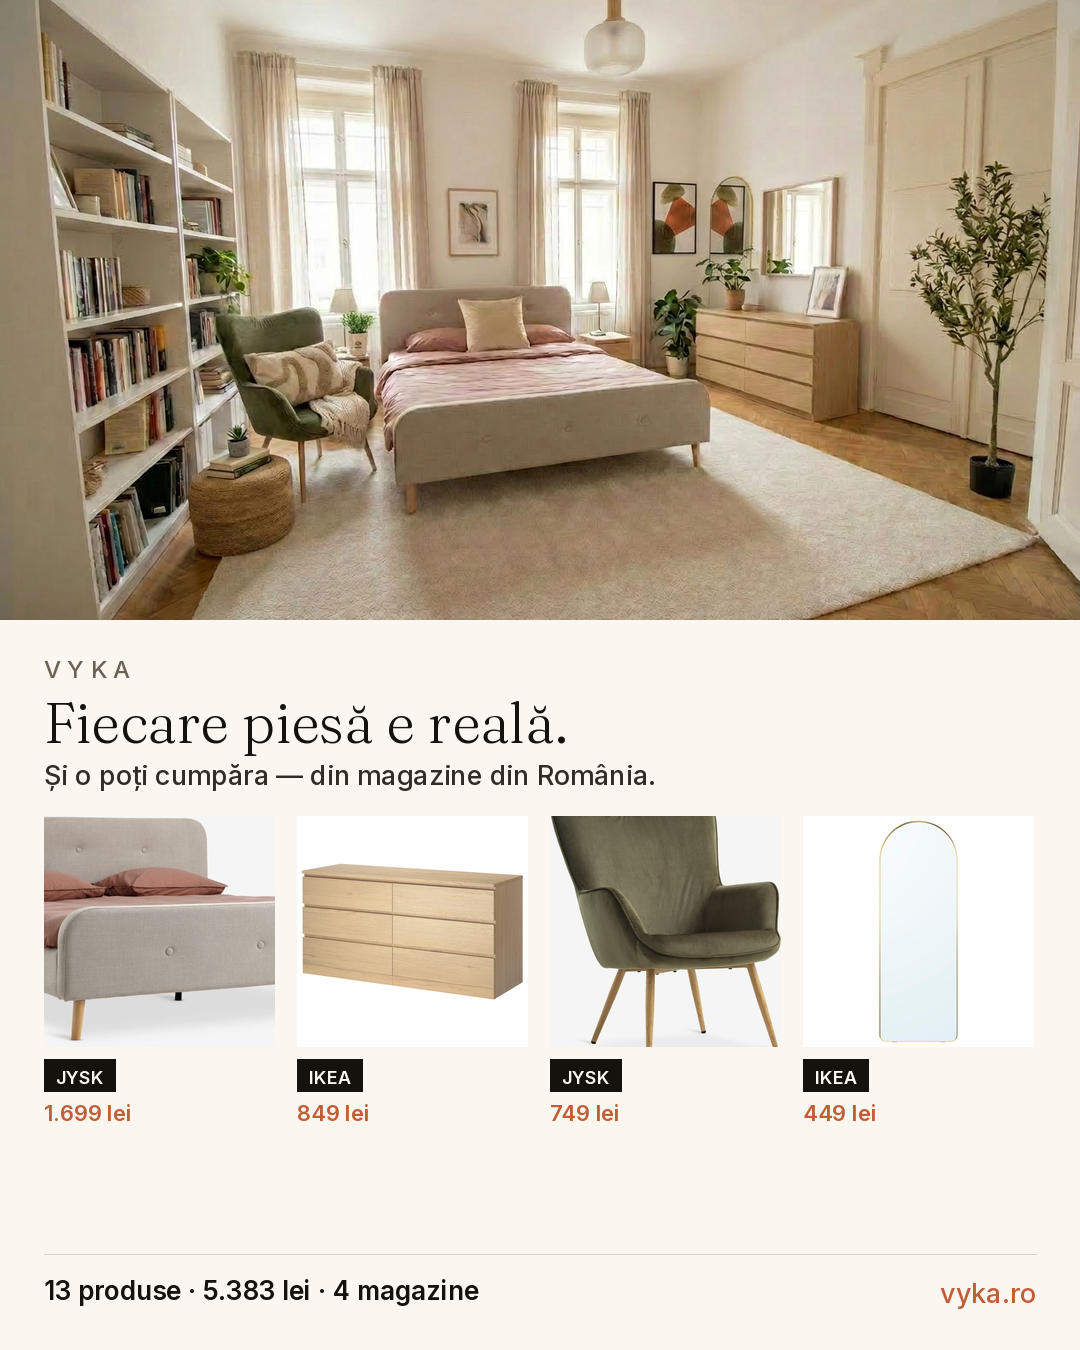
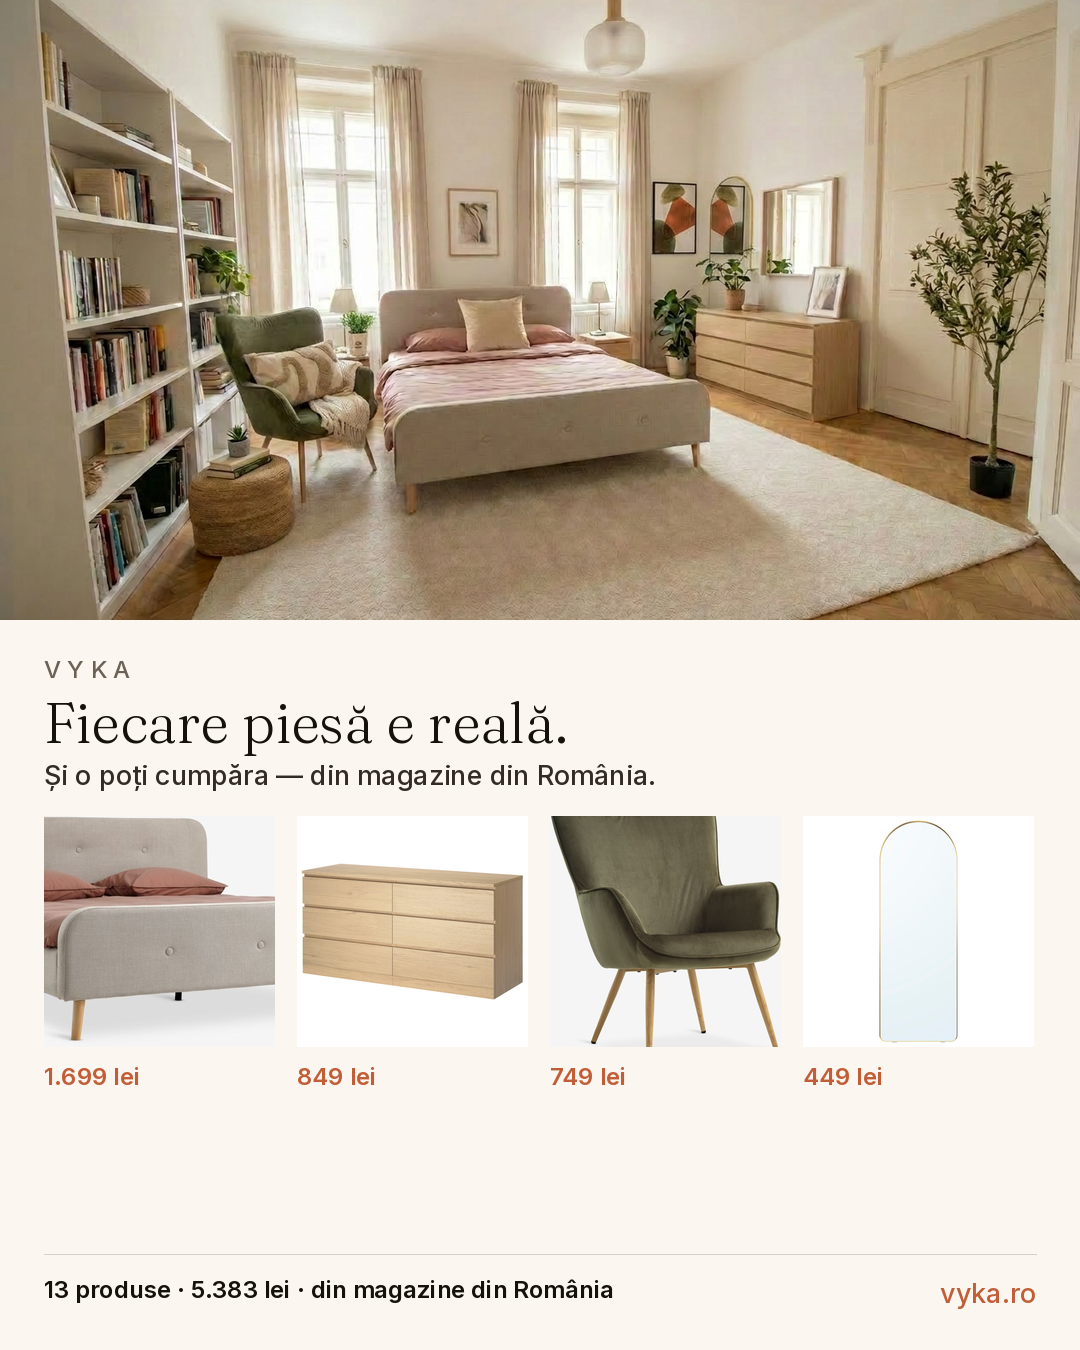
Marketing: drop store brand names, use 'magazine disponibile în România'
Avoids implying partnership/endorsement with named retailers. Removes
per-product store badges + the store-names line from shoppable cards, updates
the VO line and caption. (App's real shopping list still shows stores.)

diff --git a/make_shop_vertical.py b/make_shop_vertical.py
@@ -45,14 +45,13 @@ for i, p in enumerate(feat):
     except Exception:
         th = Image.new("RGB", (cw, cw), B.CREAM_100)
     card.paste(th, (x, chip_top))
-    ty = chip_top + cw + 14
-    B.store_badge(d, (x, ty), p["store"], size=18)
-    d.text((x, ty + 42), lei(p["price_minor"]), font=B.font("bold", 24), fill=B.ACCENT)
-fy = chip_top + cw + 14 + 88
+    # no store name on marketing assets — price only
+    d.text((x, chip_top + cw + 16), lei(p["price_minor"]), font=B.font("bold", 26), fill=B.ACCENT)
+fy = chip_top + cw + 16 + 64
 d.line([(54, fy), (W - 54, fy)], fill=B.HAIRLINE, width=1)
-d.text((54, fy + 24), f"{len(prods)} produse · {total:,.0f}".replace(",", ".") + " lei · 4 magazine",
+d.text((54, fy + 24), f"{len(prods)} produse · {total:,.0f}".replace(",", ".") + " lei",
        font=B.font("bold", 30), fill=B.HEADING)
-d.text((54, fy + 66), "IKEA · JYSK · Mobexpert · Beliani", font=B.font("sans", 26), fill=B.TEXT_MUTED)
+d.text((54, fy + 66), "din magazine disponibile în România", font=B.font("sans", 26), fill=B.TEXT_MUTED)
 cta = "vyka.ro"
 d.text((W - 54 - d.textlength(cta, font=B.font("sans", 30)), fy + 30), cta, font=B.font("sans", 30), fill=B.ACCENT)
 card.save(OUT / "ee_shop_9x16.png", quality=92)

diff --git a/make_cards.py b/make_cards.py
@@ -105,13 +105,12 @@ def shoppable(out):
         except Exception:
             th = Image.new("RGB", (cw, cw), B.CREAM_100)
         card.paste(th, (x, chip_top))
-        ty = chip_top + cw + 12
-        B.store_badge(d, (x, ty), p["store"])
-        d.text((x, ty + 40), lei(p["price_minor"]), font=B.font("bold", 22), fill=B.ACCENT)
+        # no store name on marketing assets — price only
+        d.text((x, chip_top + cw + 14), lei(p["price_minor"]), font=B.font("bold", 24), fill=B.ACCENT)
     fy = H - 96
     d.line([(44, fy), (W - 44, fy)], fill=B.HAIRLINE, width=1)
-    d.text((44, fy + 20), f"{len(prods)} produse · {total:,.0f}".replace(",", ".") + " lei · 4 magazine",
-           font=B.font("bold", 26), fill=B.HEADING)
+    d.text((44, fy + 20), f"{len(prods)} produse · {total:,.0f}".replace(",", ".") + " lei · din magazine din România",
+           font=B.font("bold", 24), fill=B.HEADING)
     cta = "vyka.ro"
     d.text((W - 44 - d.textlength(cta, font=B.font("sans", 27)), fy + 22), cta, font=B.font("sans", 27), fill=B.ACCENT)
     card.save(OUT / out, quality=92)

diff --git a/build_reel_1080.py b/build_reel_1080.py
@@ -9,7 +9,7 @@ R = pathlib.Path(__file__).parent
 OUT = R / "out"; TMP = R / "_rb1080"; TMP.mkdir(exist_ok=True)
 FF = imageio_ffmpeg.get_ffmpeg_exe()
 W, H, FPS = 1080, 1920, 30
-DUR = {"s1": 2.6, "s2": 5.0, "s3": 5.7, "s4": 4.6}
+DUR = {"s1": 2.6, "s2": 5.0, "s3": 4.5, "s4": 4.6}
 SRC_REEL = OUT / "ee_reel_vo_9x16.mp4"   # has the timed VO+music
 
 

diff --git a/build_reel_vo.py b/build_reel_vo.py
@@ -11,7 +11,7 @@ OUT = R / "out"; TMP = R / "_rb"; TMP.mkdir(exist_ok=True)
 FF = imageio_ffmpeg.get_ffmpeg_exe()
 W, H, FPS = 720, 1280, 30
 # segment durations tuned so each VO line fits its beat
-DUR = {"s1": 2.6, "s2": 5.0, "s3": 5.7, "s4": 4.6}
+DUR = {"s1": 2.6, "s2": 5.0, "s3": 4.5, "s4": 4.6}
 TOTAL = sum(DUR.values())  # 17.0
 # absolute VO start offsets (s) + line files
 VO = [("_vo/l1.mp3", 0.4),

diff --git a/CAPTION.md b/CAPTION.md
@@ -3,7 +3,7 @@
 ## Caption — recommended (Instagram / Facebook)
 > Camera ta, reimaginată în câteva minute. ✨
 >
-> Încarci o poză, alegi un stil — iar Vyka îți arată cum ar putea arăta camera ta, cu mobilă și decor **reale**, din magazine din România: IKEA, JYSK, Mobexpert, Beliani. 🛋️
+> Încarci o poză, alegi un stil — iar Vyka îți arată cum ar putea arăta camera ta, cu mobilă și decor **reale**, din magazine disponibile în România. 🛋️
 >
 > Fără designer, fără așteptări de săptămâni. Și fiecare piesă din imagine se poate cumpăra.
 >